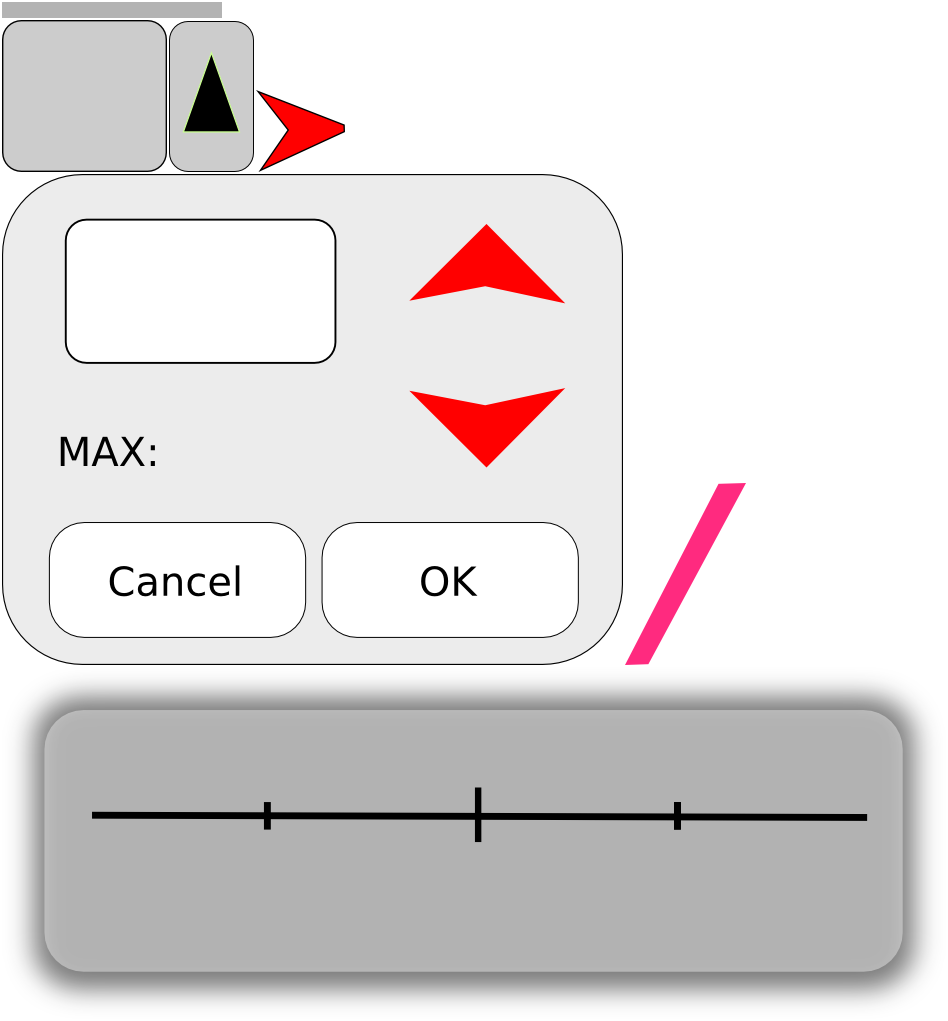
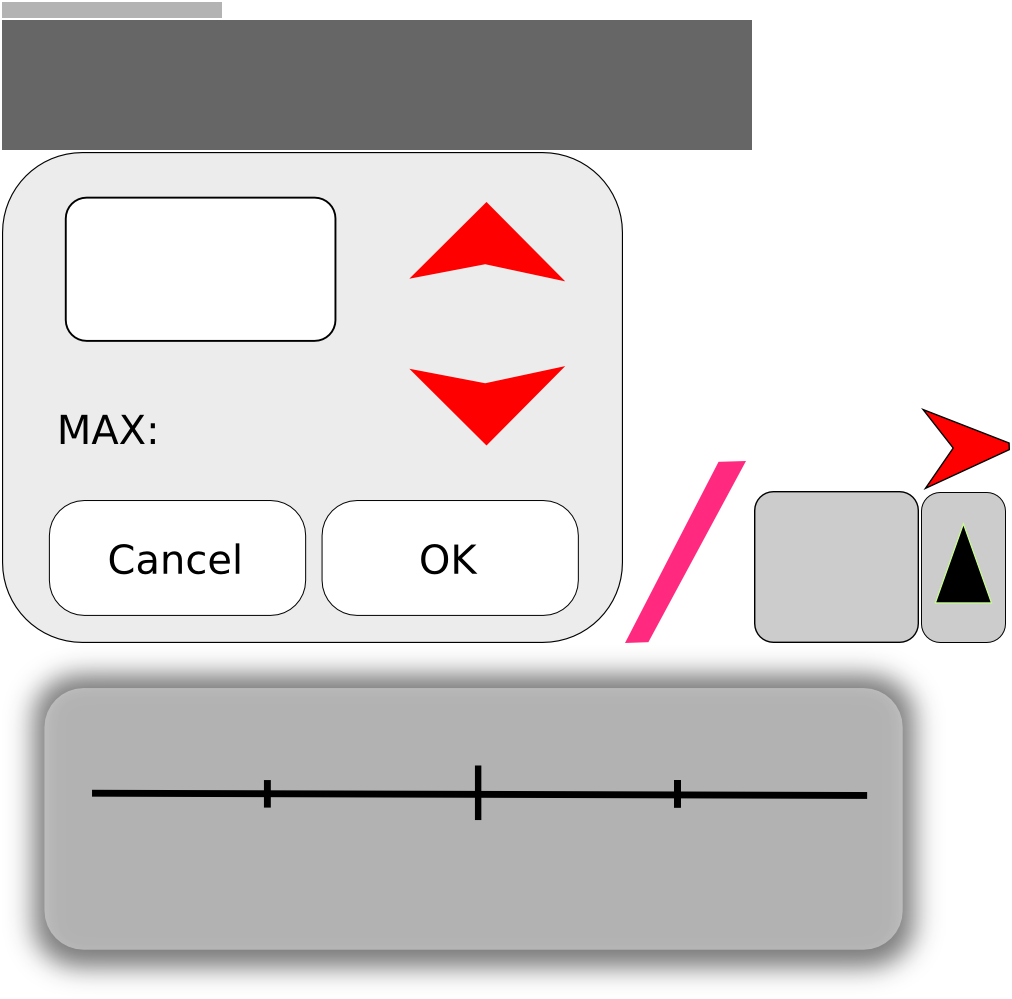
Working on the player HUD

diff --git a/GalCon-Client/GalCon-Client/src/com/xxx/galcon/screen/BoardScreenPlayerHud.java b/GalCon-Client/GalCon-Client/src/com/xxx/galcon/screen/BoardScreenPlayerHud.java
@@ -1,14 +1,20 @@
 package com.xxx.galcon.screen;
 
+import com.badlogic.gdx.Gdx;
 import com.badlogic.gdx.assets.AssetManager;
+import com.badlogic.gdx.graphics.Color;
 import com.badlogic.gdx.graphics.g2d.TextureAtlas;
+import com.badlogic.gdx.graphics.g2d.TextureRegion;
 import com.badlogic.gdx.graphics.g2d.TextureAtlas.AtlasRegion;
 import com.badlogic.gdx.graphics.glutils.ShaderProgram;
 import com.badlogic.gdx.scenes.scene2d.Actor;
+import com.badlogic.gdx.scenes.scene2d.Group;
 import com.badlogic.gdx.scenes.scene2d.InputEvent;
+import com.badlogic.gdx.scenes.scene2d.ui.Image;
 import com.badlogic.gdx.scenes.scene2d.ui.ImageButton;
 import com.badlogic.gdx.scenes.scene2d.ui.ImageButton.ImageButtonStyle;
 import com.badlogic.gdx.scenes.scene2d.ui.Table;
+import com.badlogic.gdx.scenes.scene2d.utils.Align;
 import com.badlogic.gdx.scenes.scene2d.utils.ClickListener;
 import com.badlogic.gdx.scenes.scene2d.utils.TextureRegionDrawable;
 import com.esotericsoftware.tablelayout.Cell;
@@ -19,22 +25,33 @@ import com.xxx.galcon.model.Player;
 import com.xxx.galcon.model.Point;
 import com.xxx.galcon.screen.event.TransitionEvent;
 import com.xxx.galcon.screen.widget.ActionButton;
+import com.xxx.galcon.screen.widget.Line;
 import com.xxx.galcon.screen.widget.ShaderLabel;
 
-public class BoardScreenPlayerHud extends Table {
+public class BoardScreenPlayerHud extends Group {
 	
 	private AtlasRegion bgTexture;
 	private AssetManager assetManager;
 	private UISkin skin;
 	private ShaderProgram fontShader;
 	private GameBoard gameBoard;
+	private TextureAtlas gameBoardAtlas;
+	
+	private ActionButton backButton;
+	private Image firstSlash;
+	private Image secondSlash;
+	private ShaderLabel firstPlayer;
+	private ShaderLabel vs;
+	private ShaderLabel secondPlayer;
 	
 	public BoardScreenPlayerHud(AssetManager assetManager, UISkin skin, ShaderProgram fontShader, float width, float height, Point position, GameBoard gameBoard){
 		this.assetManager = assetManager;
 		this.skin = skin;
 		this.fontShader = fontShader;
 		this.gameBoard = gameBoard;
-		setWidth(width);
+		this.gameBoardAtlas = assetManager.get("data/images/gameBoard.atlas", TextureAtlas.class);
+
+		setWidth(Gdx.graphics.getWidth());
 		setHeight(height);
 		setPosition(position.x, position.y);
 		createTable();
@@ -42,40 +59,59 @@ public class BoardScreenPlayerHud extends Table {
 	}
 
 	private void createLayout() {
-		left();
-		Actor backButton = createBackButton();
-		Actor slashLine = createSlash();
-		Actor userTable = createUserTable();
-		Actor refreshButton = createRefreshButton();
-		
-		
-		addActorAtSize(backButton).padLeft(5);
-		addActorAtSize(slashLine);
-		add(userTable).width(getWidth() * 0.6f).height(getHeight());
-		addActorAtSize(refreshButton);
+		createBackButton();
+		createFirstSlash();
+		createSecondSlash();
+		createUserTable();
+		createRefreshButton();
 
 	}
 	
-	
-
-	private Actor createUserTable() {
-		Table userTable = new Table();
-		userTable.center();
-		userTable.setHeight(getHeight());
-		if(!gameBoard.players.get(0).hasMoved(gameBoard)){
-			// Draw the line beside the name to indicate this player can move
-		}
-		userTable.add(new ShaderLabel(fontShader, playerInfo(gameBoard.players.get(0)), skin, Constants.UI.SMALL_FONT));
-		userTable.row().height(0).width(0);
-		userTable.add(new ShaderLabel(fontShader, "vs", skin, Constants.UI.SMALL_FONT)).center();
-		userTable.row();
-		if(gameBoard.players.size() > 1 && !gameBoard.players.get(1).hasMoved(gameBoard)){
-			// Draw the line for the second player indicating they can move again.
-		}
-		userTable.add(new ShaderLabel(fontShader, gameBoard.players.size() > 1 ? playerInfo(gameBoard.players.get(1)) : "Awaiting opponent", skin, Constants.UI.SMALL_FONT)).padBottom(5);
-
+	private void createUserTable(){
+		firstPlayer = new ShaderLabel(fontShader, playerInfo(gameBoard.players.get(0)), skin, Constants.UI.SMALL_FONT);
+		firstPlayer.setWidth(getWidth() * 0.55f);
+		firstPlayer.setX(secondSlash.getX() + getWidth() * 0.1f);
+		firstPlayer.setY((getHeight() - firstPlayer.getTextBounds().height) - (getHeight() * 0.1f));
+		firstPlayer.setAlignment(Align.center);
+		addActor(firstPlayer);
 		
-		return userTable;
+		vs = new ShaderLabel(fontShader, "vs", skin, Constants.UI.SMALL_FONT);
+		vs.setWidth(getWidth() * 0.55f);
+		vs.setX(secondSlash.getX() + getWidth() * 0.1f);
+		vs.setY((firstPlayer.getY() - vs.getTextBounds().height) - getHeight() * 0.1f);
+		vs.setAlignment(Align.center);
+		addActor(vs);
+		
+		secondPlayer = new ShaderLabel(fontShader, gameBoard.players.size() > 1 ? playerInfo(gameBoard.players.get(1)) : "[waiting for opponent]", skin, Constants.UI.SMALL_FONT);
+		secondPlayer.setWidth(getWidth() * 0.55f);
+		secondPlayer.setX(secondSlash.getX() + getWidth() * 0.1f);
+		secondPlayer.setY((vs.getY() - secondPlayer.getTextBounds().height) - getHeight() * 0.1f);
+		secondPlayer.setAlignment(Align.center);
+		addActor(secondPlayer);
+		
+		addPlayerLine(gameBoard.players.get(0), firstPlayer);
+		if(gameBoard.players.size() > 1){
+			addPlayerLine(gameBoard.players.get(1), secondPlayer);
+		}
+		
+		
+	}
+
+	private void addPlayerLine(Player player, ShaderLabel referencePoint) {
+		if(!player.hasMoved(gameBoard)){
+			Actor line = line();
+			line.setX((referencePoint.getX() + (referencePoint.getTextBounds().width * 0.5f)) - line.getWidth() * 0.5f);
+			line.setY(referencePoint.getY() + (referencePoint.getTextBounds().height * 0.5f));
+			addActor(line);
+		}
+	}
+	
+	private Actor line(){
+		TextureRegion lineRegion = gameBoardAtlas.findRegion("line");
+		Line line = new Line(Color.valueOf("E8920C"), getWidth() * 0.05f, lineRegion);
+		line.setHeight(getHeight() * 0.1f);
+		
+		return line;
 	}
 	
 	private String playerInfo(Player player){
@@ -83,25 +119,32 @@ public class BoardScreenPlayerHud extends Table {
 	}
 
 
-	private Cell<Actor> addActorAtSize(Actor actor){
-		return add(actor).width(actor.getWidth()).height(actor.getHeight());
+	private void createFirstSlash() {
+		firstSlash = createSlash();
+		firstSlash.setX(backButton.getX() + backButton.getWidth() + (firstSlash.getWidth() * 0.3f));
+		
+		
+		addActor(firstSlash);
+	}
+	
+	private void createSecondSlash() {
+		secondSlash = createSlash();
+		secondSlash.setX(firstSlash.getX() + (firstSlash.getWidth() * 0.5f));
+		
+		addActor(secondSlash);
 	}
 
-	private Actor createSlash() {
+	private Image createSlash() {
 		TextureAtlas gameBoardAtlas = assetManager.get("data/images/gameBoard.atlas", TextureAtlas.class);
 		TextureRegionDrawable trd = new TextureRegionDrawable(gameBoardAtlas.findRegion("slash_line"));
-		ImageButtonStyle style = new ImageButtonStyle(trd, trd, trd, trd, trd, trd);
-		ImageButton imagebutton = new ImageButton(style);
-		imagebutton.setHeight(getHeight());
-		imagebutton.setWidth(getWidth() * 0.08f);
-		
-		
-		return imagebutton;
+		Image slash = new Image(trd);
+		slash.setWidth(getWidth() * 0.1f);
+		return slash;
 	}
-
-	private Actor createBackButton() {
+	
+	private void createBackButton() {
 		float buttonSize = getHeight() * 0.8f;
-		ActionButton backButton = new ActionButton(skin, "backButton", buttonSize, buttonSize);
+		backButton = new ActionButton(skin, "backButton", buttonSize, buttonSize);
 		backButton.addListener(new ClickListener(){
 			@Override
 			public void clicked(InputEvent clickEvent, float x, float y) {
@@ -109,10 +152,12 @@ public class BoardScreenPlayerHud extends Table {
 				fire(event);
 			}
 		});
-		return backButton;
+		backButton.setY(getHeight() * 0.1f);
+		backButton.setX(backButton.getWidth() * 0.05f);
+		addActor(backButton);
 	}
 	
-	private Actor createRefreshButton() {
+	private void createRefreshButton() {
 		float buttonSize = getHeight() * 0.8f;
 		ActionButton refreshButton = new ActionButton(skin, "refreshButton", buttonSize, buttonSize);
 		refreshButton.addListener(new ClickListener(){@Override
@@ -120,14 +165,19 @@ public class BoardScreenPlayerHud extends Table {
 			TransitionEvent transitionEvent = new TransitionEvent(Action.REFRESH);
 			fire(transitionEvent);
 		}});
+		refreshButton.setX((firstPlayer.getX() + firstPlayer.getWidth()) + getWidth() * 0.01f);
+		refreshButton.setY(refreshButton.getY() + getHeight() * 0.1f);
+		addActor(refreshButton);
 		
-		return refreshButton;
 	}
 
 	private void createTable() {
-		TextureAtlas menuAtlas = assetManager.get("data/images/menus.atlas", TextureAtlas.class);
-		bgTexture = menuAtlas.findRegion("bg_dark_gray_10x10");
-		setBackground(new TextureRegionDrawable(bgTexture));
+		TextureAtlas gameBoardAtlas = assetManager.get("data/images/gameBoard.atlas", TextureAtlas.class);
+		bgTexture = gameBoardAtlas.findRegion("player_hud");
+		Image backGround = new Image(new TextureRegionDrawable(bgTexture));
+		backGround.setWidth(getWidth());
+		backGround.setHeight(getHeight());
+		addActor(backGround);
 	}
 
 }

diff --git a/GalCon-Client/GalCon-Client/src/com/xxx/galcon/screen/BoardScreen.java b/GalCon-Client/GalCon-Client/src/com/xxx/galcon/screen/BoardScreen.java
@@ -14,6 +14,7 @@ import com.badlogic.gdx.InputProcessor;
 import com.badlogic.gdx.assets.AssetManager;
 import com.badlogic.gdx.graphics.Camera;
 import com.badlogic.gdx.graphics.Color;
+import com.badlogic.gdx.graphics.GL10;
 import com.badlogic.gdx.graphics.PerspectiveCamera;
 import com.badlogic.gdx.graphics.g2d.TextureAtlas;
 import com.badlogic.gdx.graphics.g2d.TextureAtlas.AtlasRegion;
@@ -100,7 +101,6 @@ public class BoardScreen implements ScreenFeedback {
 		fontShader = createShader("data/shaders/font-vs.glsl", "data/shaders/font-fs.glsl");
 
 		stage = new Stage();
-		stage.setViewport(Gdx.graphics.getWidth(), Gdx.graphics.getHeight(), true);
 
 	}
 
@@ -466,6 +466,7 @@ public class BoardScreen implements ScreenFeedback {
 
 	@Override
 	public void render(float delta) {
+		Gdx.gl.glClear(GL10.GL_COLOR_BUFFER_BIT);
 
 		if (planetMoveChange) {
 			applyMovesToPlanetButtons();
